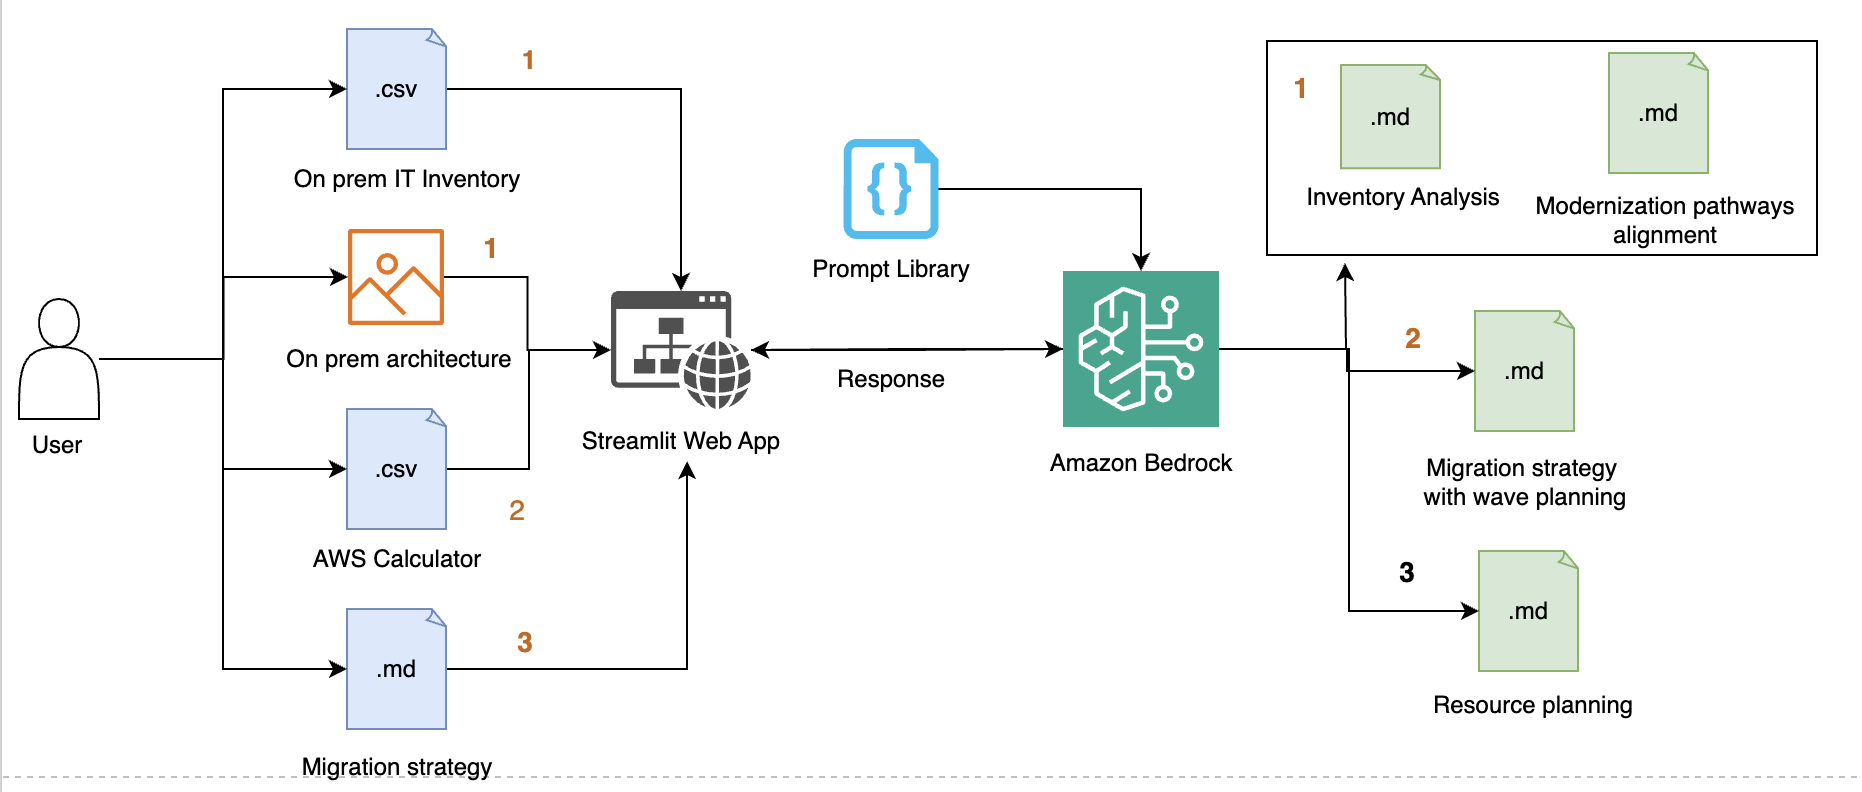
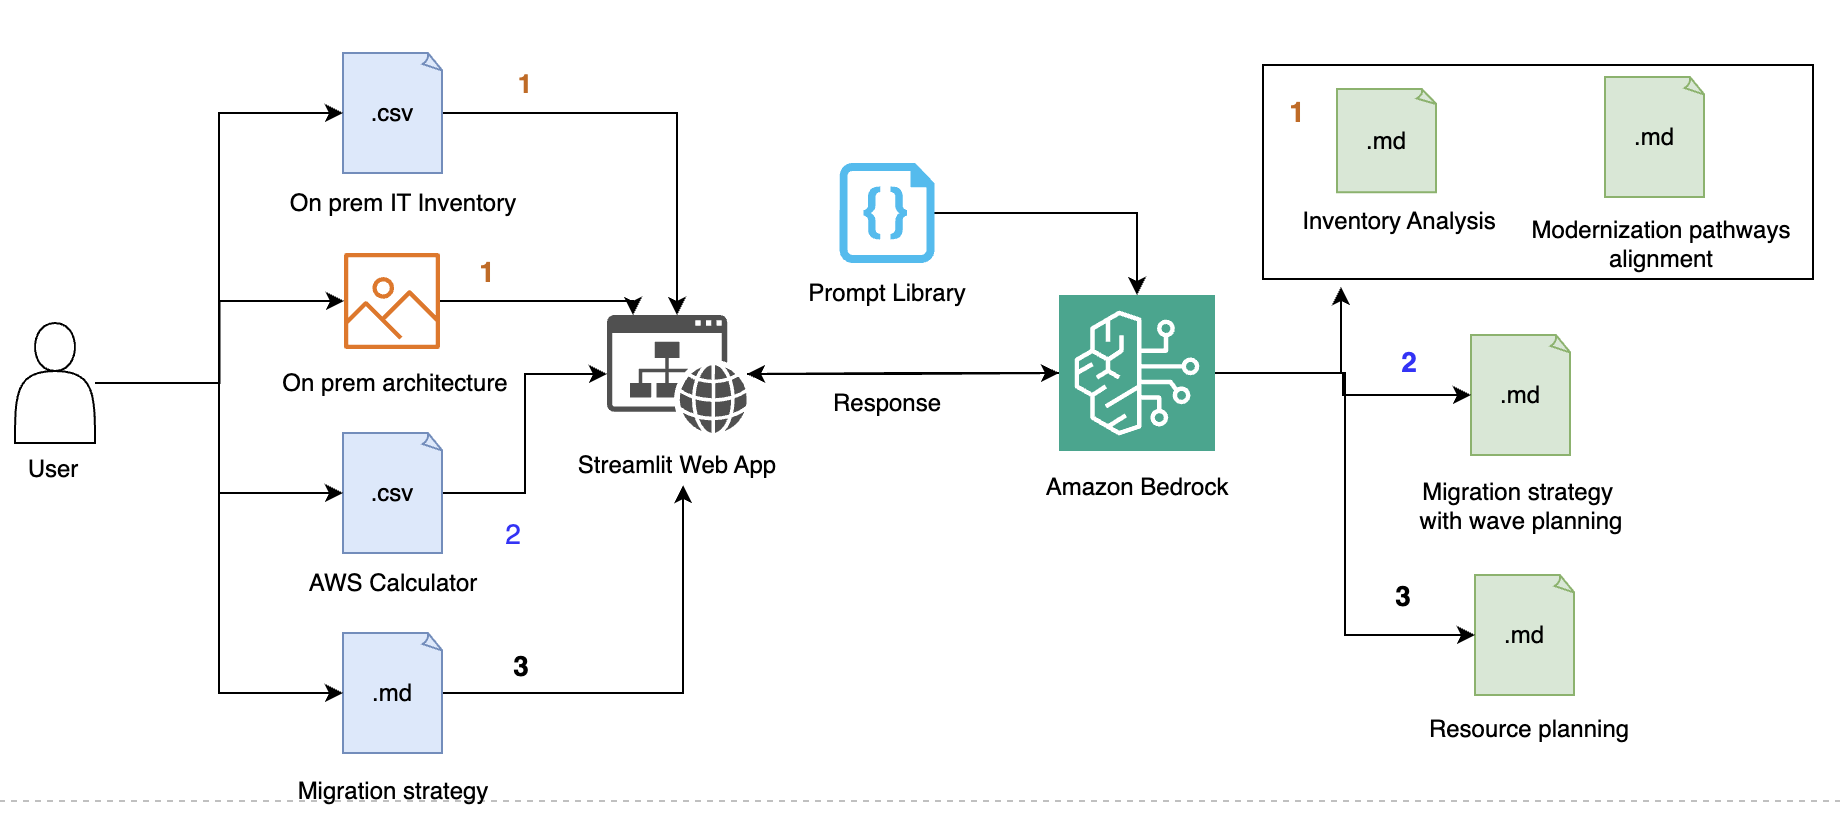
minor chanes

diff --git a/pages/01_modernization_opportunity.py b/pages/01_modernization_opportunity.py
@@ -6,16 +6,20 @@ images to generate AWS modernisation recommendations.
 import pandas as pd
 import streamlit as st
 
-from prompt_library.modernization_opportunity.invventory_analysis_prompt import \
-    get_invventory_analysis_prompt
-from prompt_library.modernization_opportunity.modernization_pathways_prompt import \
-    get_modernization_pathways_prompt
-from prompt_library.modernization_opportunity.onprem_architecture_prompt import \
-    get_onprem_architecture_prompt
-from utils.bedrock_client import (invoke_bedrock_model_for_image_analysis,
-                                  invoke_bedrock_model_with_reasoning)
-from utils.image_processor import (convert_image_to_base64, get_image_type,
-                                   resize_image)
+from prompt_library.modernization_opportunity.invventory_analysis_prompt import (
+    get_invventory_analysis_prompt,
+)
+from prompt_library.modernization_opportunity.modernization_pathways_prompt import (
+    get_modernization_pathways_prompt,
+)
+from prompt_library.modernization_opportunity.onprem_architecture_prompt import (
+    get_onprem_architecture_prompt,
+)
+from utils.bedrock_client import (
+    invoke_bedrock_model_for_image_analysis,
+    invoke_bedrock_model_with_reasoning,
+)
+from utils.image_processor import convert_image_to_base64, get_image_type, resize_image
 
 if "inventory_analysis" not in st.session_state:
     st.session_state["inventory_analysis"] = "inventory_analysis"

diff --git a/pages/02_migration_strategy.py b/pages/02_migration_strategy.py
@@ -10,8 +10,10 @@ import io
 import pandas as pd
 import streamlit as st
 
-from prompt_library.migration_patterns.migration_patterns_prompt import \
-    get_migration_patterns_prompt
+from prompt_library.migration_patterns.migration_patterns_prompt import (
+    get_migration_patterns_prompt,
+)
+
 # pylint: disable=import-error
 from utils.bedrock_client import invoke_bedrock_model_without_reasoning
 

diff --git a/pages/03_resource_planning.py b/pages/03_resource_planning.py
@@ -9,8 +9,9 @@ import re
 
 import streamlit as st
 
-from prompt_library.resource_planning.resource_planning_prompt import \
-    get_resource_planning_prompt
+from prompt_library.resource_planning.resource_planning_prompt import (
+    get_resource_planning_prompt,
+)
 from utils.bedrock_client import invoke_bedrock_model_with_reasoning
 from utils.file_handler import read_csv_file
 

diff --git a/home_page.py b/home_page.py
@@ -15,7 +15,7 @@ st.markdown("""
     - This demo can analyse infrastructure data to generate strategic recommendations, predict MAP funding milestones, and create migration wave plans.
     """)
 st.image(
-    "sampledata/landing_page_image.jpeg",
+    "sampledata/home_page_image.jpeg",
     caption="Generative AI in AWS MAP Assessment Phase",
 )
 st.header("Key features:")

diff --git a/utils/config.py b/utils/config.py
@@ -28,7 +28,7 @@ DEFAULT_REASONING_BUDGET = 2000
 MEDIA_TYPE = "image/png"
 
 # File Paths Configuration
-FILE_PATHS = {"resource_profile": "sampledata/resource_profile.csv"}
+FILE_PATHS = {"resource_profile": "sampledata/resource_profile_template.csv"}
 
 
 def get_aws_region() -> str:

diff --git a/README.md b/README.md
@@ -2,7 +2,7 @@
 
 A comprehensive Streamlit-based demonstration showcasing how Generative AI can transform the AWS Migration Acceleration Program (MAP) assessment phase. This solution leverages Amazon Bedrock Claude models to automate and enhance migration planning, cost optimization, modernization opportunity identification, and resource planning.
 
-![Gen AI MAP Assessment](sampledata/landing_page_image.jpeg)
+![Gen AI MAP Assessment](sampledata/home_page_image.jpeg)
 
 ## Overview
 
@@ -18,18 +18,21 @@ This demo illustrates the application of Generative AI during the MAP assessment
 ## Features
 
 ### 1. Modernization Opportunity Analysis
+
 - Analyzes architecture and on-premises infrastructure data
 - Identifies modernization pathways with corresponding AWS cost projections
 - Supports CSV inventory data and architecture image analysis
 - Provides detailed AWS service recommendations
 
 ### 2. Migration Strategy Development
+
 - Creates data-driven migration patterns and wave planning
 - Generates cumulative spend forecasts and $50k milestone predictions
 - Processes AWS Calculator CSV exports
 - Accelerates migration timeline development
 
 ### 3. Resource Planning
+
 - Develops detailed team structures and resource allocation plans
 - Provides five key outputs:
   - Executive summary
@@ -52,6 +55,7 @@ This demo illustrates the application of Generative AI during the MAP assessment
 ## Prerequisites
 
 ### AWS Requirements
+
 - An [AWS account](https://aws.amazon.com/)
 - Amazon Bedrock access with Claude model permissions in AWS regions US East (N. Virginia) *us-east-1* for this code.
 - [AWS Command Line Interface (AWS CLI)](https://aws.amazon.com/cli/)
@@ -61,17 +65,20 @@ This demo illustrates the application of Generative AI during the MAP assessment
 ## Quick Start
 
 ### 1. Clone the Repository
+
 ``` Python3
 git clone <repository-url>
 cd map-genai-usecases-aws-sample
 ```
 
 ### 2. Install Dependencies
+
 ``` Python3
 pip install -r requirements.txt
 ```
 
 ### 3. Configure AWS Credentials
+
 ``` bash
 # Option 1: AWS CLI
 aws configure
@@ -83,11 +90,29 @@ export AWS_DEFAULT_REGION=us-east-1
 ```
 
 ### 4. Enable Bedrock Models
+
 Ensure you have access to the following models in Amazon Bedrock:
+
 - `anthropic.claude-3-5-sonnet-20240620-v1:0`
 - `us.anthropic.claude-3-7-sonnet-20250219-v1:0`
 
-### 5. Run the Application
+### 5. Review Configuration in utils/config.py
+
+Before running the application, review and optionally modify the configuration settings in `utils/config.py`:
+
+- **AWS Region**: Defaults to `us-east-1` (can be overridden via `AWS_REGION` environment variable)
+- **Amazon Bedrock Model**: Claude 3.7 Sonnet (`us.anthropic.claude-3-7-sonnet-20250219-v1:0`) and model parameters
+- **Timeout Settings**: 5-minute read timeout, 60-second connection timeout
+- **File Processing**: Supports PNG images and CSV data files
+- **Sample Data**: Resource profile template available at `sampledata/resource_profile_template.csv`
+
+Key configuration functions:
+
+- `get_aws_region()`: Returns configured AWS region
+- `get_model_config()`: Returns model parameters for Claude 3.7
+
+### 6. Run the Application
+
 ``` Python3
 streamlit run home_page.py
 ```
@@ -97,6 +122,7 @@ The application will be available at `http://localhost:8501`
 ## Usage Guide
 
 ### Modernization Opportunity Analysis
+
 1. Navigate to the "Modernization Opportunity" page
 2. Upload your IT inventory CSV file
 3. Define the scope of modernization
@@ -104,6 +130,7 @@ The application will be available at `http://localhost:8501`
 5. Review modernization recommendations
 
 ### Migration Strategy Development
+
 1. Go to the "Migration Strategy" page
 2. Upload AWS Calculator CSV export
 3. Define migration parameters and constraints
@@ -112,12 +139,12 @@ The application will be available at `http://localhost:8501`
 6. (optionally) Download the migration strategy document which is useful for the use case 'Resource Planning'
 
 ### Resource Planning
+
 1. Access the "Resource Planning" page
-2. Upload migration strategy document with wave planning generated using "Migration Strategy" page 
-3. Review resource profile data (see /sampledata/resource_profile.csv)
+2. Upload migration strategy document with wave planning generated using "Migration Strategy" page
+3. Review resource profile data (see /sampledata/resource_profile_template.csv)
 4. Generate detailed team structure recommendations
 5. Analyze resource allocation and planning outputs
-
 
 ## Important Notes
 
@@ -125,8 +152,8 @@ The application will be available at `http://localhost:8501`
 
 > 💡 **This solution is explicitly designed for proof-of-concept purposes** only to explore the art of possibility with Generative AI for MAP assessments. Please adhere to your company's enhanced security and compliance policies
 
-
 ### Best Practices
+
 - Validate all Generative AI-generated recommendations with domain experts
 - Test with your specific data like IT inventory data (e.g., server lists, application catalogs), On-premises architecture diagrams,AWS Calculator and Resource profile data
 - Monitor AWS costs
@@ -138,8 +165,7 @@ The application will be available at `http://localhost:8501`
   - Set up an AWS CodePipeline with AWS CodeBuild (i.e build the Docker image, push it to ECR, and apply the Kubernetes manifests.) to automate the deployment process
   - **Set up Amazon Virtual Private Cloud (Amazon VPC) with enhanced security features and configure subnets, route tables, and security groups. Implement IAM roles using principle of the least privillage, encryption, network policies, and VPC flow logs to enhance security. Use CloudWatch for comprehensive logging, metrics, alarms, and dashboards to ensure your application runs smoothly and efficiently.**
 
-
-## Cost 
+## Cost
 
 - [Amazon CloudWatch](https://docs.aws.amazon.com/bedrock/latest/userguide/monitoring.html) to monitor runtime metrics for Bedrock applications, providing additional insights into performance and cost management
 - Implement caching for repeated analyses
@@ -161,6 +187,7 @@ This project is licensed under the MIT License - see the LICENSE file for detail
 ## Support
 
 For support and questions:
+
 - Create an issue in the GitHub repository
 - Review the AWS Bedrock documentation
 - Check Streamlit documentation for UI-related issues
